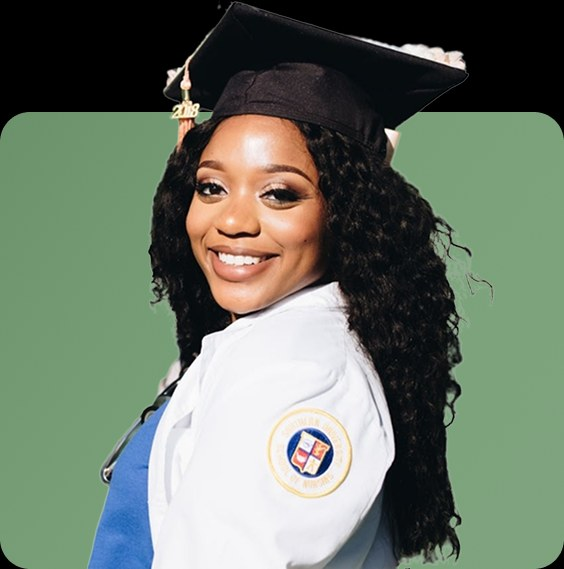
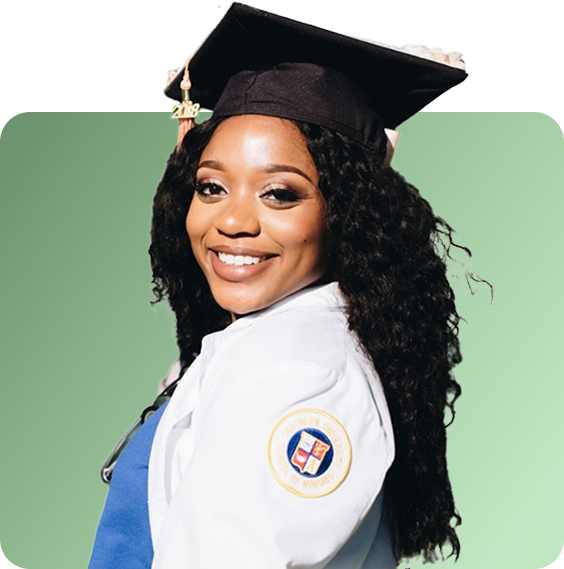
Updated the Testimonial section and the images that went black

diff --git a/app/layout.tsx b/app/layout.tsx
@@ -1,3 +1,4 @@
+import Head from "next/head";
 import type { Metadata } from "next";
 import { Montserrat } from "next/font/google";
 import "./globals.css";
@@ -6,8 +7,15 @@ import Footer from "@/components/shared/Footer";
 const montserrat = Montserrat({ subsets: ["latin"] });
 
 export const metadata: Metadata = {
-	title: "Create Next ",
-	description: "Generated by create next app",
+	title: "JJC Scholarship | Empowering Future Leaders Through Education",
+	description:
+		"Apply for the JJC Scholarship and secure your future. Get financial aid, mentorship, and leadership training to excel academically and professionally.",
+	keywords:
+		"JJC Scholarship, scholarship, nigerian scholarship, private university, ajayi crowther university, federal university, unilag, UI, apply for a scholarship, university scholarship in Nigeria, merit-based scholarship, financial aid for students, scholarships for undergraduates, leadership and mentorship programs, fully funded scholarship opportunities, college funding assistance, student grants and bursaries, how to apply for the JJC Scholarship, best scholarships for students in 2024, education funding for high-achieving students",
+	openGraph: {
+		images: "/assets/images/opengraph.png",
+	},
+	metadataBase: new URL("https://jjc-scholarship.vercel.app"),
 };
 
 export default function RootLayout({
@@ -17,6 +25,23 @@ export default function RootLayout({
 }>) {
 	return (
 		<html lang="en">
+			<Head>
+				<meta property="og:image" content="/opengraph.png" />
+				<meta
+					property="og:image"
+					content="/assets/images/opengraph.png"
+				/>
+				<meta
+					name="viewport"
+					content="width=device-width, initial-scale=1.0, user-scalable=no"
+				/>
+				<meta
+					data-n-head="ssr"
+					data-hid="viewport"
+					name="viewport"
+					content="width=device-width, initial-scale=1, shrink-to-fit=no, maximum-scale=1"
+				/>
+			</Head>
 			<body className={montserrat.className}>
 				{children}
 				<Footer />

diff --git a/components/ui/animated-testimonials.tsx b/components/ui/animated-testimonials.tsx
@@ -45,9 +45,9 @@ export const AnimatedTestimonials = ({
 		return Math.floor(Math.random() * 21) - 10;
 	};
 	return (
-		<div className="antialiased lg:col-span-2">
-			<div className="relative grid grid-cols-1 md:grid-cols-2 gap-20">
-				<div>
+		<div className="antialiased lg:col-span-2 mt-16">
+			<div className="relative grid grid-cols-1 md:grid-cols-2 lg:grid-cols-5 gap-10">
+				<div className="lg:col-span-2">
 					<div className="relative h-80 w-full">
 						<AnimatePresence>
 							{testimonials.map((testimonial, index) => (
@@ -96,7 +96,7 @@ export const AnimatedTestimonials = ({
 						</AnimatePresence>
 					</div>
 				</div>
-				<div className="flex justify-between flex-col py-4">
+				<div className="lg:col-span-3 flex justify-between flex-col py-4">
 					<motion.div
 						key={active}
 						initial={{
